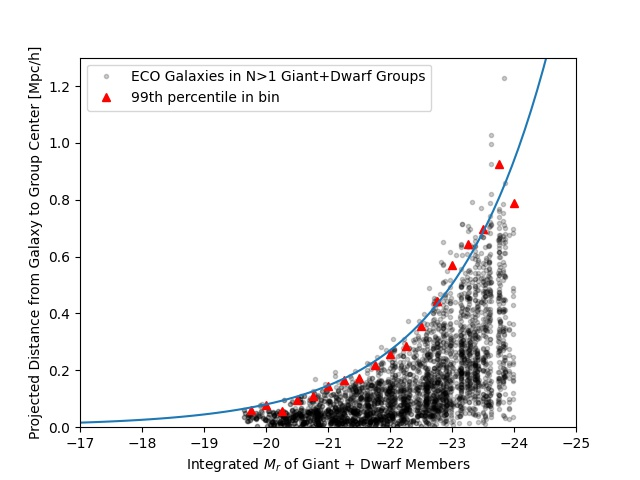
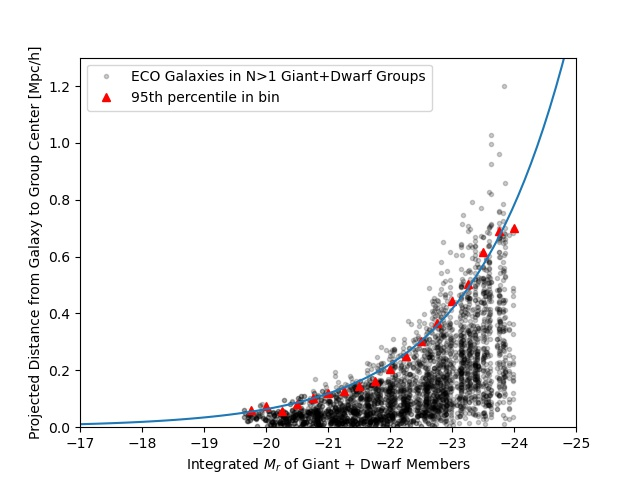
updated readme + figures

diff --git a/readme.md b/readme.md
@@ -5,7 +5,7 @@ This git repository stores the codes and group catalogs for the RESOLVE-G3 (Gas 
 ## Using the Group Data
 <details>
 
-We provide galaxy catalogs containing group information from three group-finding selection criteria: a luminosity-selected group catalog, a stellar mass-selected group catalog,and a baryonic mass-selected (M* + 1.4MHI) group catalog. In addition to the names of variables standard in the RESOLVE and ECO databases, the following columns describe the new groups:
+We provide galaxy catalogs containing group information from three group-finding selection criteria: a luminosity-selected group catalog, a stellar mass-selected group catalog, and a baryonic mass-selected (M* + 1.4MHI) group catalog. In addition to the names of variables standard in the RESOLVE and ECO databases, the following columns describe the new groups:
 
 * `g3grp_*`: group ID number of galaxy following the group idenitification procedure described below.
 * `g3grpngi_*`: number of giant galaxies in group (from step 1 below). If `g3grpngi_*=0`, it is a dwarf-only group.
@@ -42,7 +42,7 @@ Therefore our selection criteria for giant-only FoF are:
 * Baryonic mass-seleted RESOLVE-B: `log(Mbary)>=9.9`, `4250 < cz [km/s] < 7250`
 
 
-We employ an adaptive linking strategy during this giant-only FoF procedure, inspired by Robotham et al. (2011) and its volume-limited application in Mummery (2018, PhD thesis). We use line-of-sight b<sub>LOS</sub> and transverse b<sub>&#8869;</sub> linking multipliers of 1.1 and 0.07, respectively, as these are optimized for the study of galaxy environment (Duarte & Mamon, 2014). In a standard FoF approach, these values are multiplied by the mean separation of galaxies, s<sub>0</sub>=(V/N)<sup>1/3</sup>, and are used as linking lengths. Here we assign a different value of `s` to every galaxy, measured instead by the number density of galaxies which are greater than or equal to their luminosity or mass. We then look at the median value of `s` over all galaxies and scale all `s` values such that the median is retained at the original s<sub>0</sub>=(V/N)<sup>1/3</sup>. The figure below shows how the value of `s` varies with absolute magnitude. We obtain `s` values for ECO and RESOLVE-B using a model fit, to (a) smooth noise in ECO brightward of ~-23, and (b) control for cosmic variance in the RESOLVE-B volume. The fit is recomputed on stellar or baryonic mass for their respective samples. This adaptive approach ensures that the linking length rises with galaxy luminosity/stellar mass and therefore reduces fragmentation of identified groups. The shape of the curve is determined by the galaxy luminosity/mass distribution, so this curve could be extended to other surveys given that ECO is resilient to cosmic variance. 
+We employ an adaptive linking strategy during this giant-only FoF procedure, inspired by Robotham et al. (2011) and its volume-limited application in Mummery (2018, PhD thesis). We use line-of-sight b<sub>LOS</sub> and transverse b<sub>&#8869;</sub> linking multipliers of 1.1 and 0.07, respectively, as these are optimized for the study of galaxy environment (Duarte & Mamon, 2014). In a standard FoF approach, these values are multiplied by the mean separation of galaxies, s<sub>0</sub>=(V/N)<sup>1/3</sup>, and are used as linking lengths. Here we assign a different value of `s` to every galaxy, measured instead by the number density of galaxies which are greater than or equal to their luminosity or mass. We then look at the median value of `s` over all galaxies and scale all `s` values such that the median is retained at the original s<sub>0</sub>=(V/N)<sup>1/3</sup>. The figure below shows how the value of `s` varies with absolute magnitude. We obtain `s` values for ECO and RESOLVE-B using a univariate cubic spline, to (a) smooth noise in ECO brightward of ~-23, and (b) control for cosmic variance in the RESOLVE-B volume. The fit is recomputed on stellar or baryonic mass for their respective samples. This adaptive approach ensures that the linking length rises with galaxy luminosity/stellar mass and therefore reduces fragmentation of identified groups. The shape of the curve is determined by the galaxy luminosity/mass distribution, so this curve could be extended to other surveys given that ECO is resilient to cosmic variance. 
 
 ![Separation for Giant Galaxies in FoF](images/meansep_M_r_plot.jpg)
 
@@ -76,7 +76,7 @@ With dwarf galaxies now associated to giant-only groups, we have a catalog of "g
  2. Use a k-d tree to identify pairs of nearest-neighbor potential groups.
  3. For every nearest-neighbor pair, check if the pair should be merged into a single group:
 *  Depending on the group finding selection, compute the integrated r-band absolute magnitude, integrated stellar mass, or integrated baryonic mass  of all member galaxies belonging to the pair. 
-*  Compute 99th percentile of relative (to group center)  projected radii and relative velocties of galaxies belonging to giant+dwarf groups of similar integrated luminosity or mass. These values are drawn from a fit as shown below.
+*  Compute 95th percentile of relative (to group center)  projected radii and relative velocties of galaxies belonging to giant+dwarf groups of similar integrated luminosity or mass. These values are drawn from a fit as shown below.<br> 
      <img src="images/itercombboundaries.jpeg"/> 
 * If all individual galaxies shared between the two potential groups can fit within those radii/velocities, we merge them together into a single group.
  4. Repeat from (2) until the dwarf-only group catalog has converged, when the potential groups are no longer merging between iterations.
